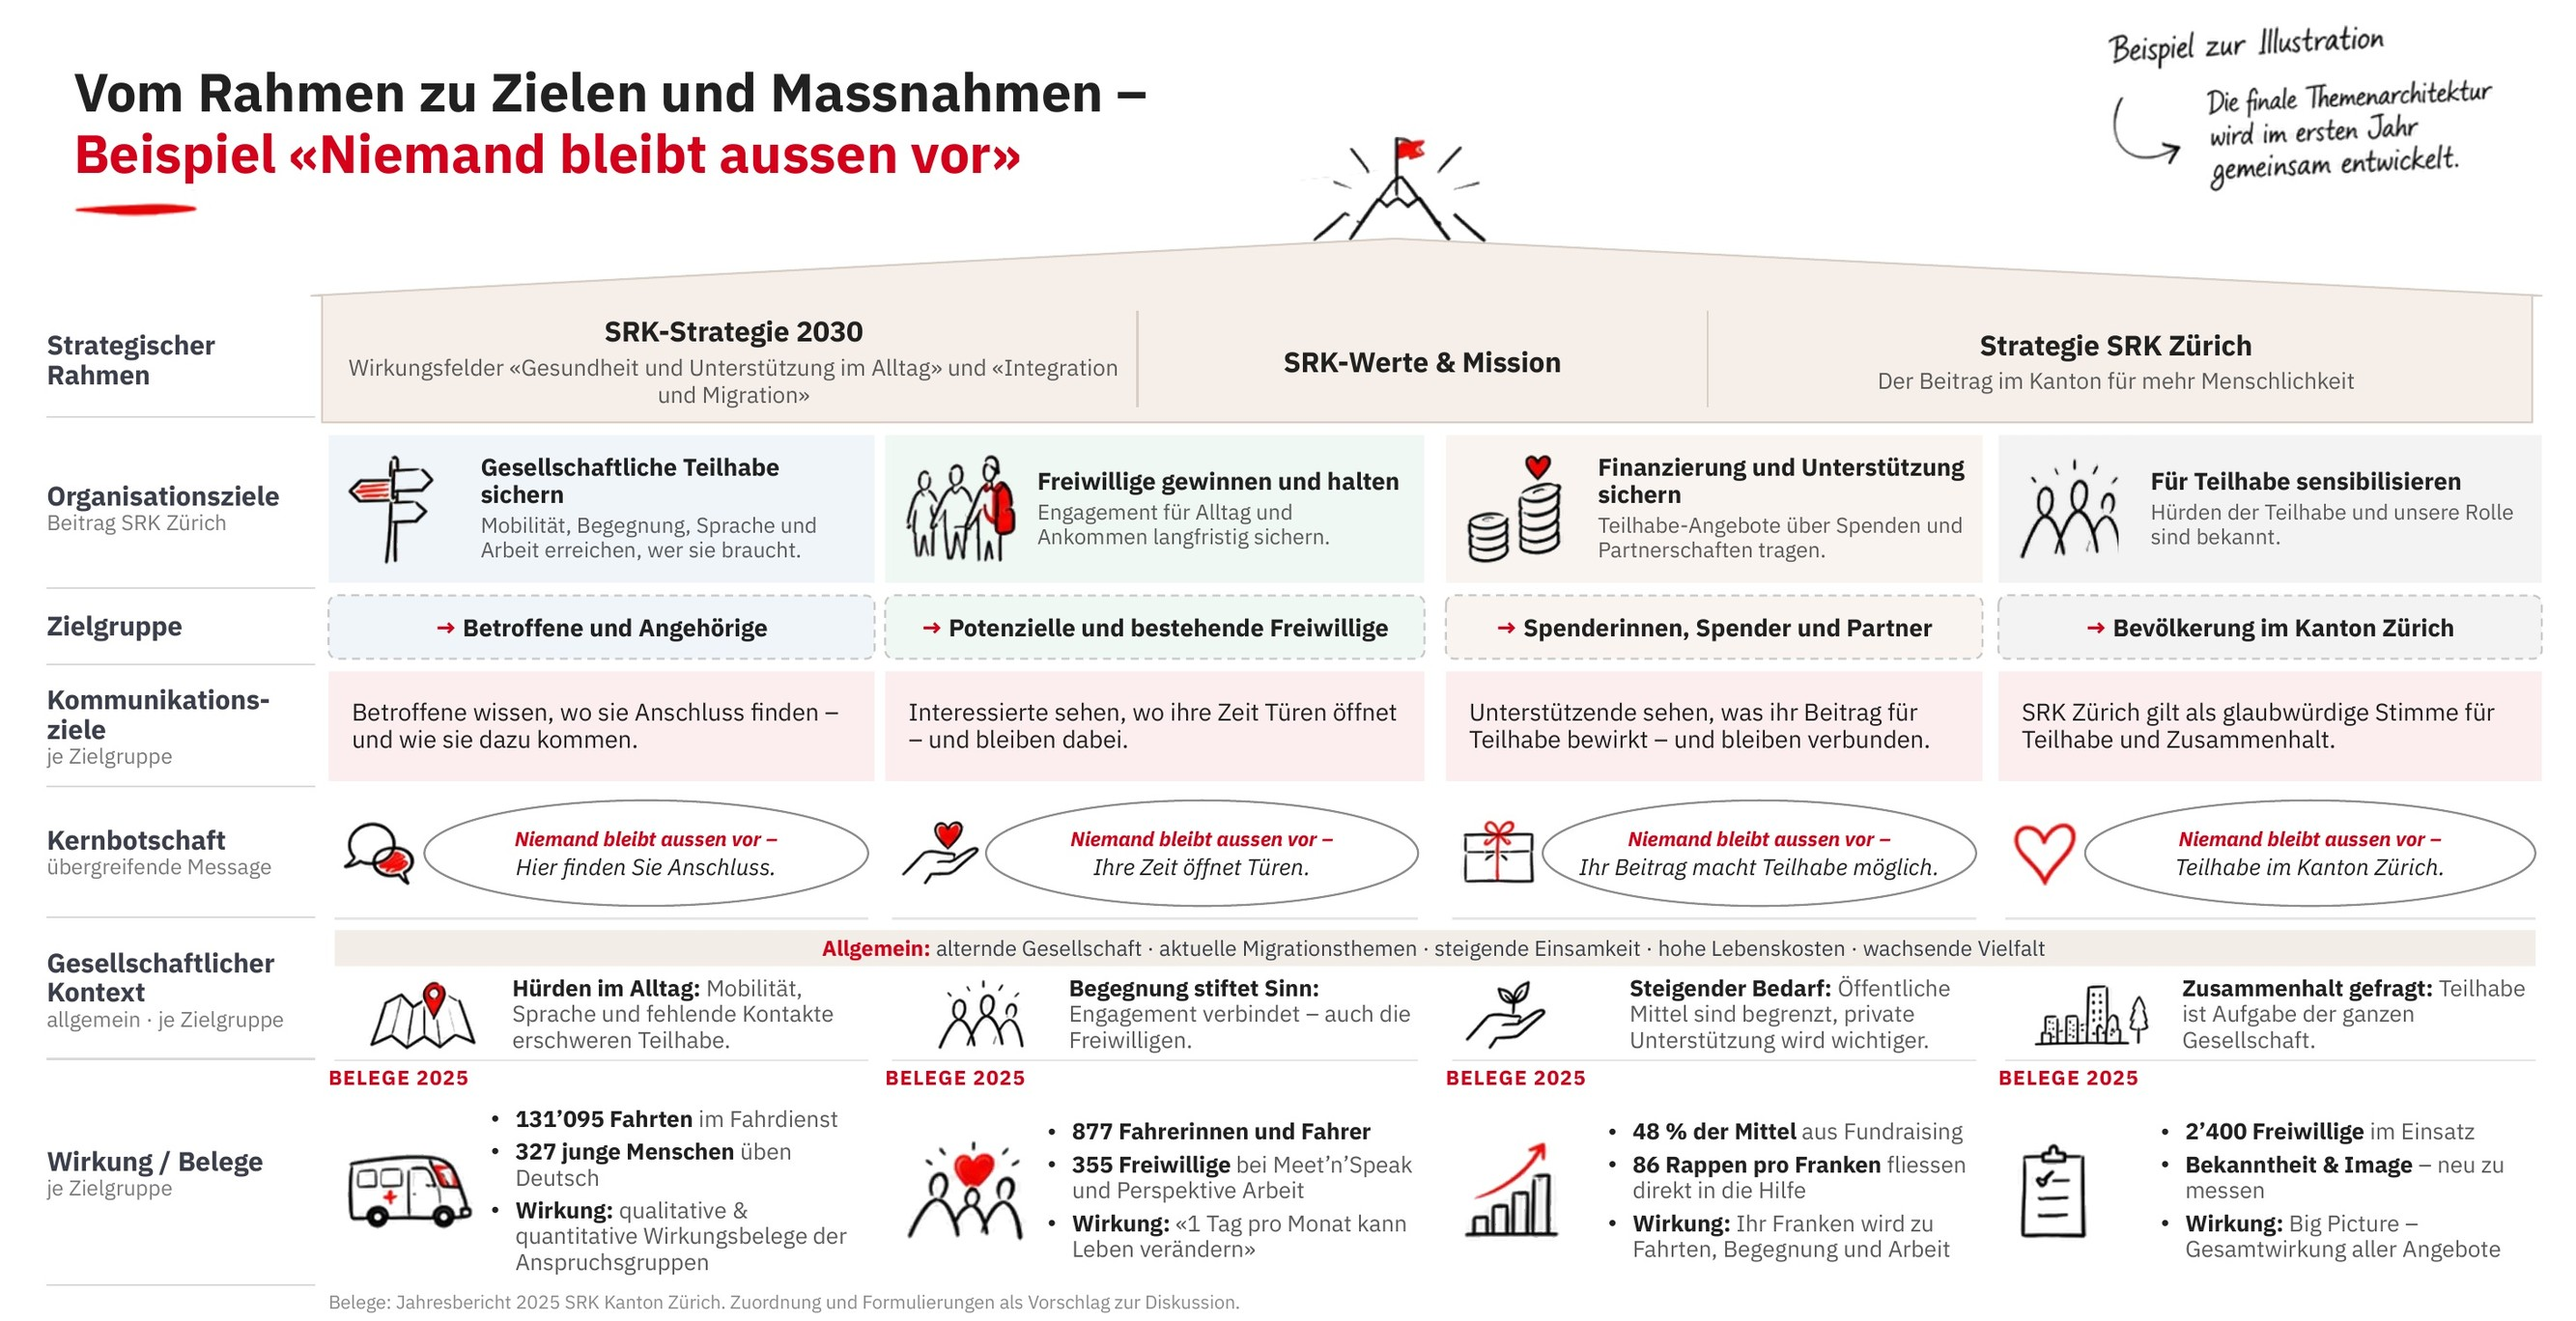
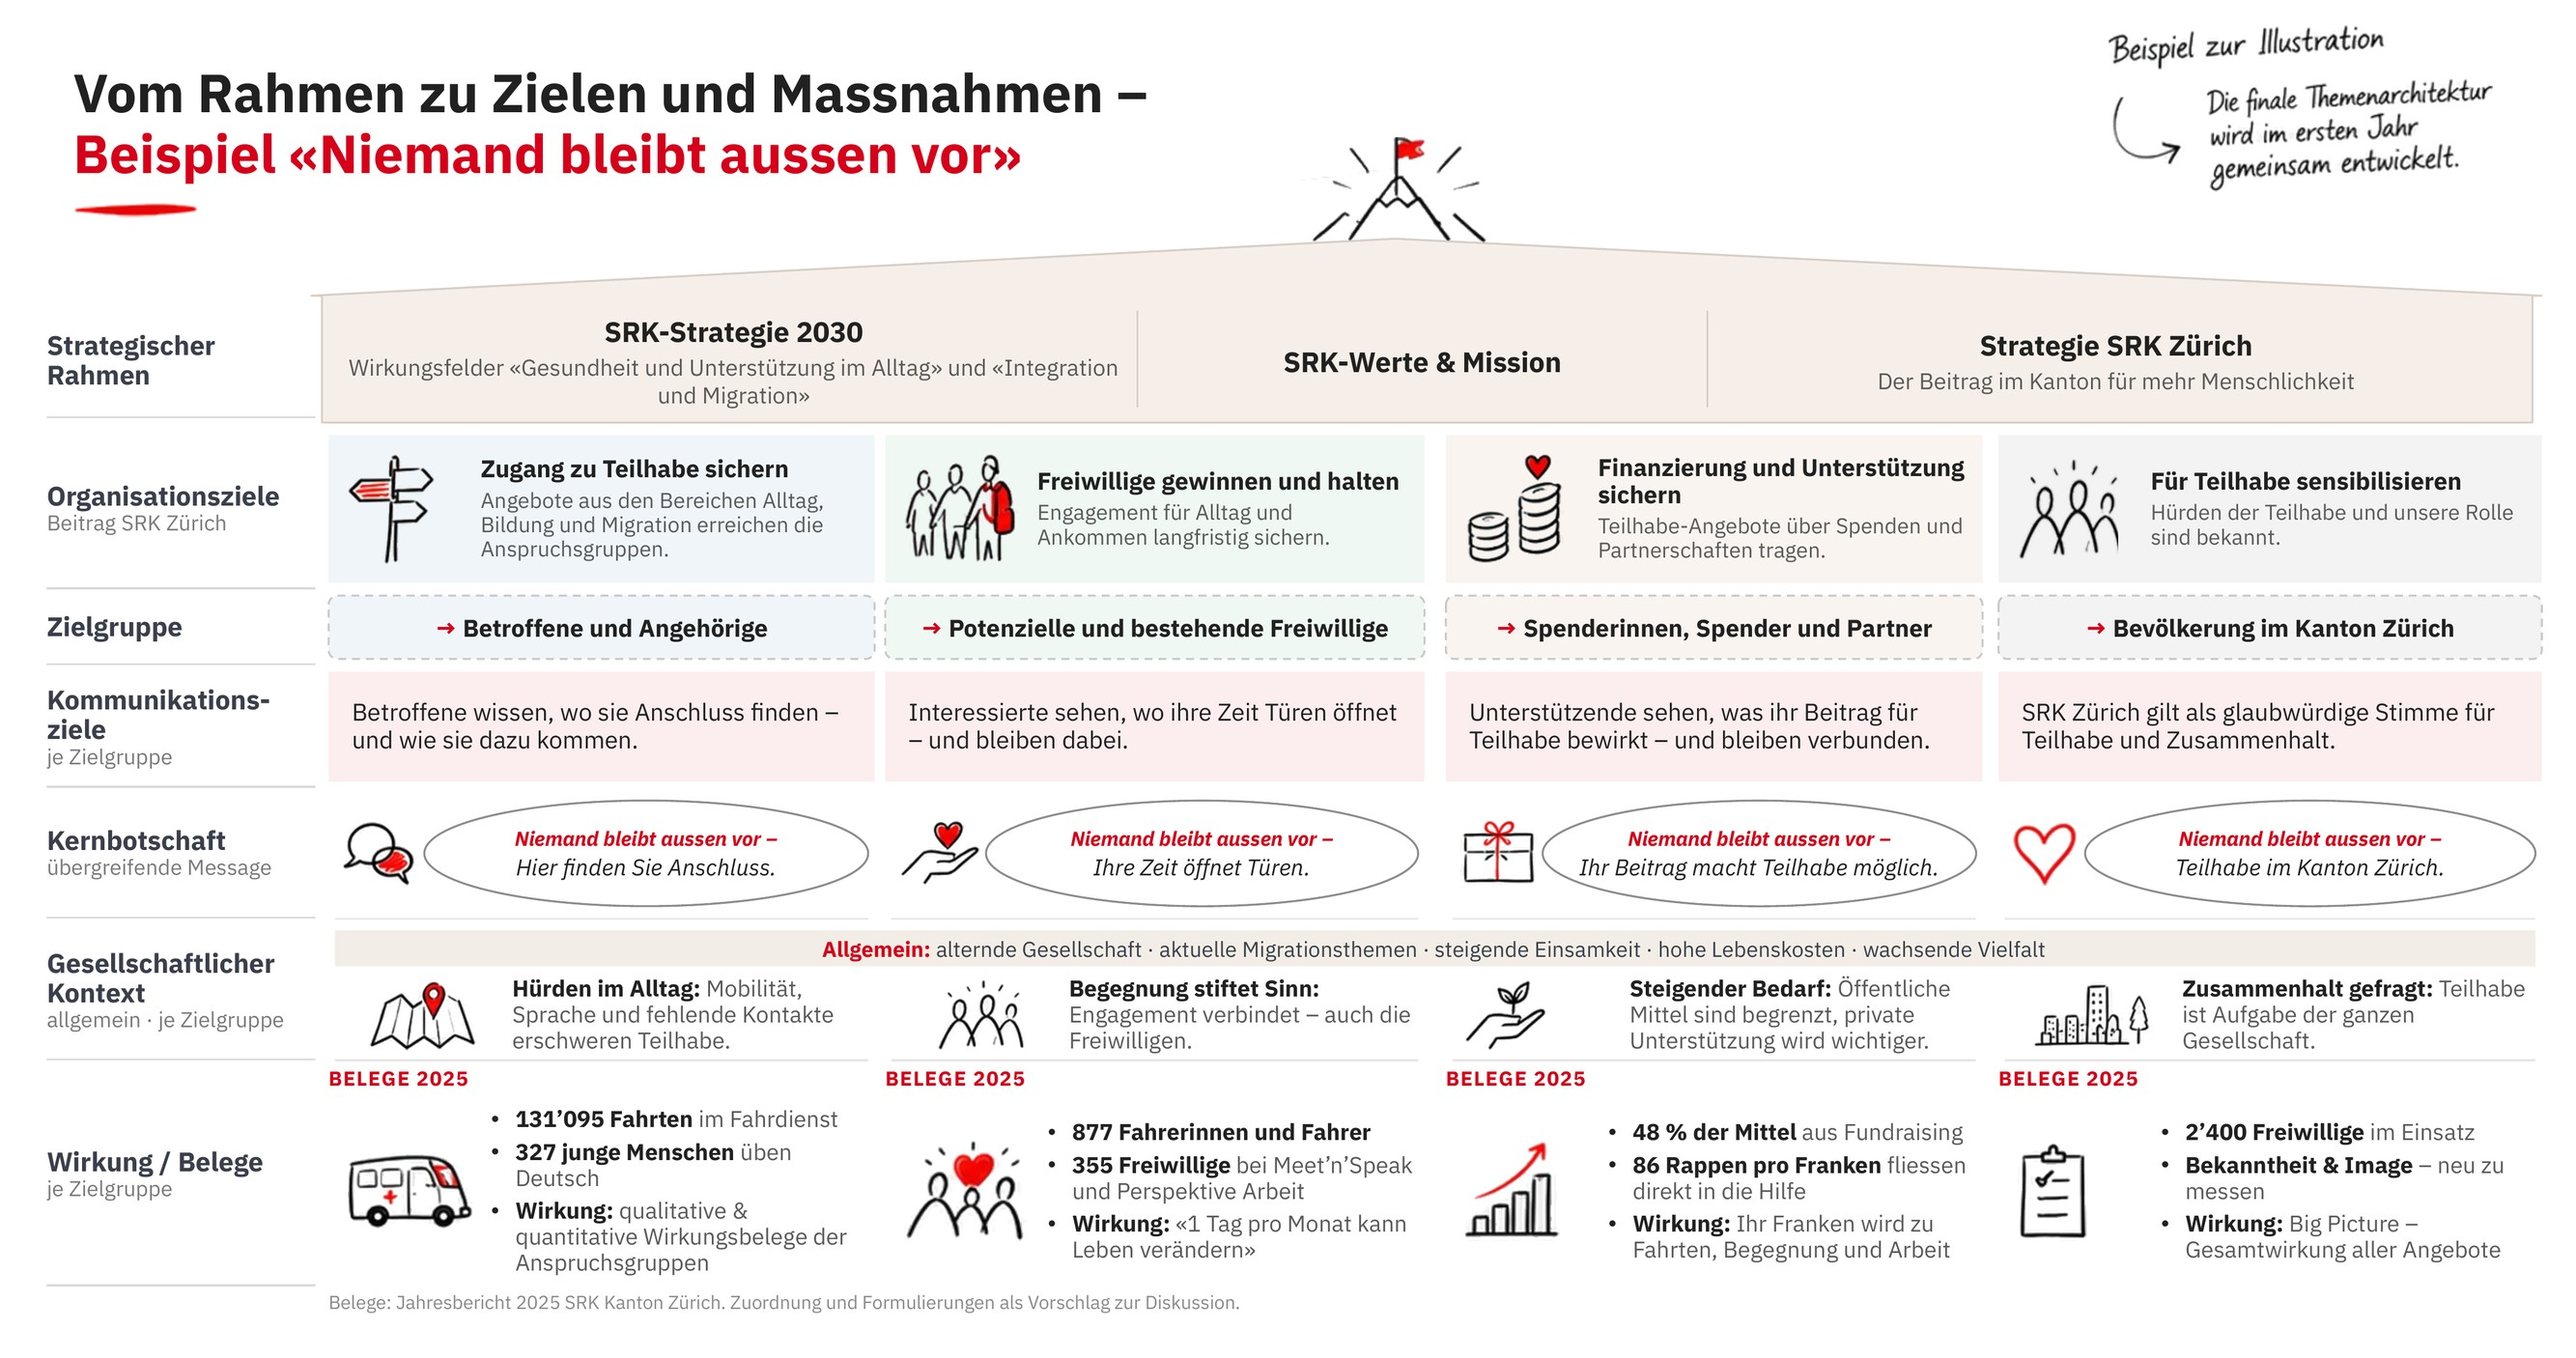
Zielhaus: Organisationsziel «Zugang zu Teilhabe sichern» aktualisiert
Claude-Session: https://claude.ai/code/session_01Der2J39CQXvMiax1v9zNGx

diff --git a/index.html b/index.html
@@ -277,7 +277,7 @@ footer a{color:inherit}
           </div>
     <figure class="zh-fig">
       <span class="zh-badge">Beispiel</span>
-      <a href="zielhaus2.jpg" target="_blank" rel="noopener"><img src="zielhaus2.jpg" alt="Zielhaus «Niemand bleibt aussen vor»: Strategischer Rahmen, vier Organisationsziele mit Zielgruppen, Kommunikationszielen, Kernbotschaften, gesellschaftlichem Kontext und Wirkung" width="2667" height="1368" loading="lazy"></a>
+      <a href="zielhaus2.jpg" target="_blank" rel="noopener"><img src="zielhaus2.jpg" alt="Zielhaus «Niemand bleibt aussen vor»: Strategischer Rahmen, vier Organisationsziele mit Zielgruppen, Kommunikationszielen, Kernbotschaften, gesellschaftlichem Kontext und Wirkung" width="2667" height="1406" loading="lazy"></a>
       <figcaption>Zum Vergrössern auf das Bild tippen. Methodisch angelehnt an das Zielhaus der Kommunikation (Storck, in Zerfass/Volk).</figcaption>
     </figure>
   </div>
